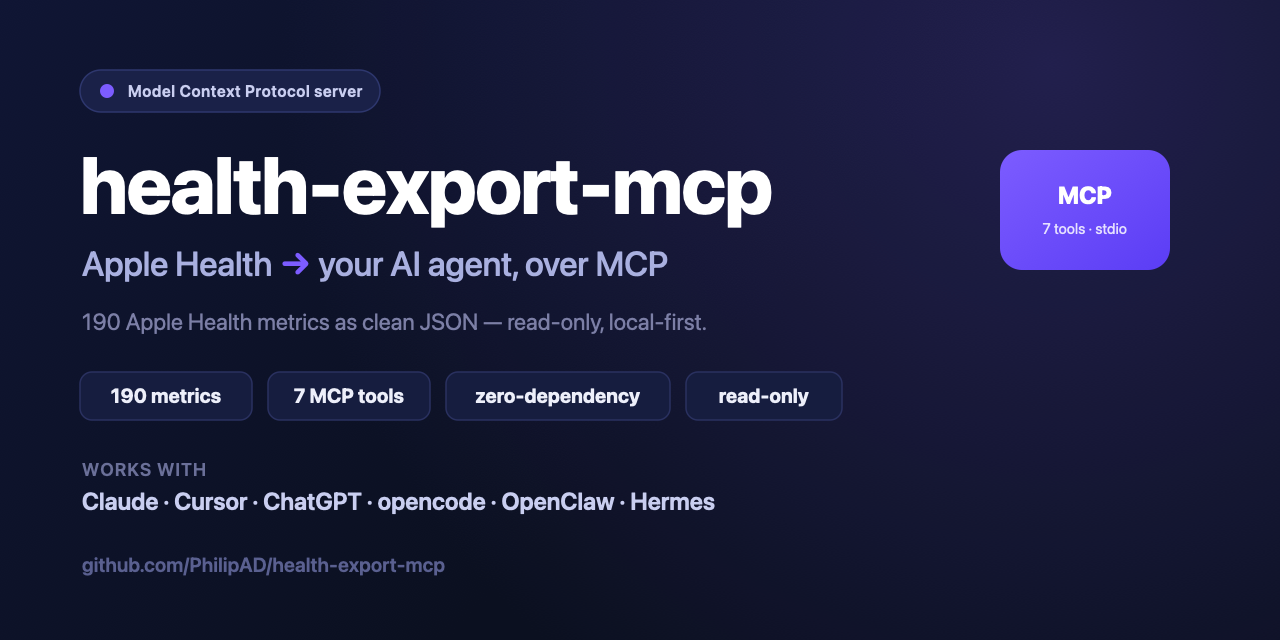
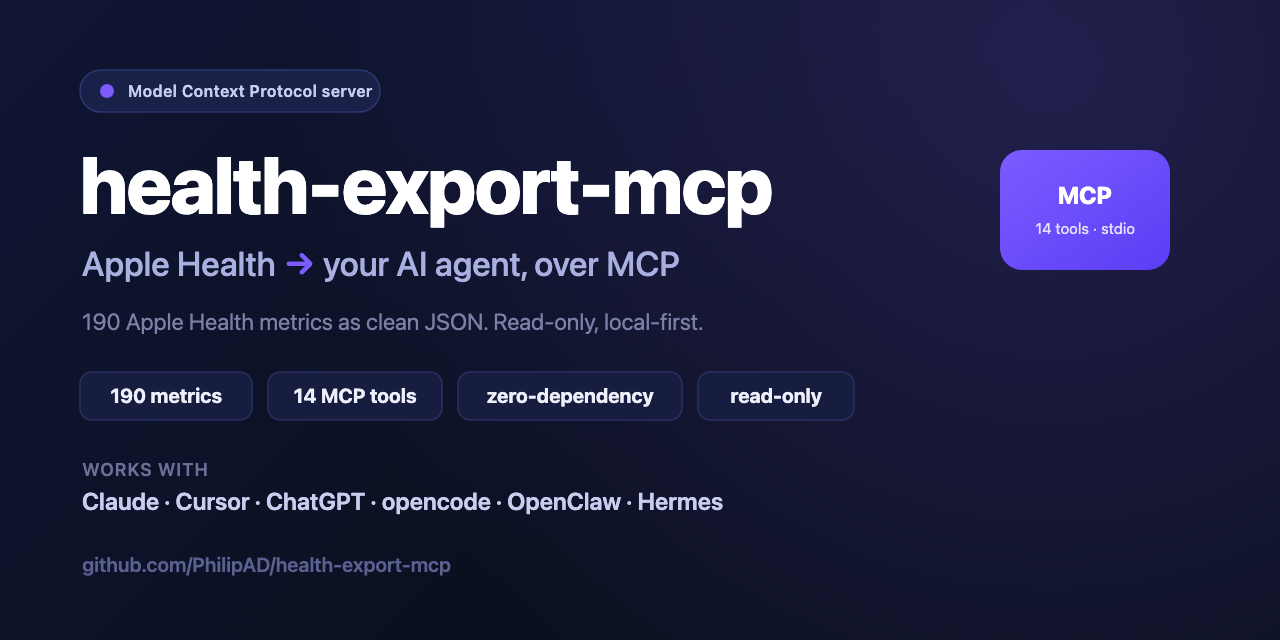
align public surfaces: 14 tools in architecture + social preview, MetricBridge in user-visible strings, dash-free SCHEMA-CONTRACTS, drop smithery.yaml from allowlists

diff --git a/docs/SCHEMA-CONTRACTS.md b/docs/SCHEMA-CONTRACTS.md
@@ -1,4 +1,4 @@
-# Schema contracts — events, profile, sessions, cycles, days, workouts (2026-08-19)
+# Schema contracts: events, profile, sessions, cycles, days, workouts (2026-08-19)
 
 The single source of truth for the file formats added by the NOW+NEXT feature wave. Both the iOS
 app (writer) and the MCP server (reader) implement against this document. All additions here are
@@ -145,7 +145,7 @@ distanceMeters,distanceSource`. New OPTIONAL keys per workout:
   `groundContactTimeAvgMs` (running dynamics, when present)
 - `cyclingPowerAvgWatts`, `cadenceAvg`
 - `intervals`: `[{start, end, duration, kind}]` from HKWorkoutEvents/activities
-  (`kind`: `segment` | `lap` | `pause` | `activity:<subtype>`) — the per-interval structure HAE
+  (`kind`: `segment` | `lap` | `pause` | `activity:<subtype>`), the per-interval structure HAE
   loses (their open issue #54)
 - `hasRoute`: true when a workout route exists (GPX exported separately on demand as
   `workout-<id>.gpx`)
